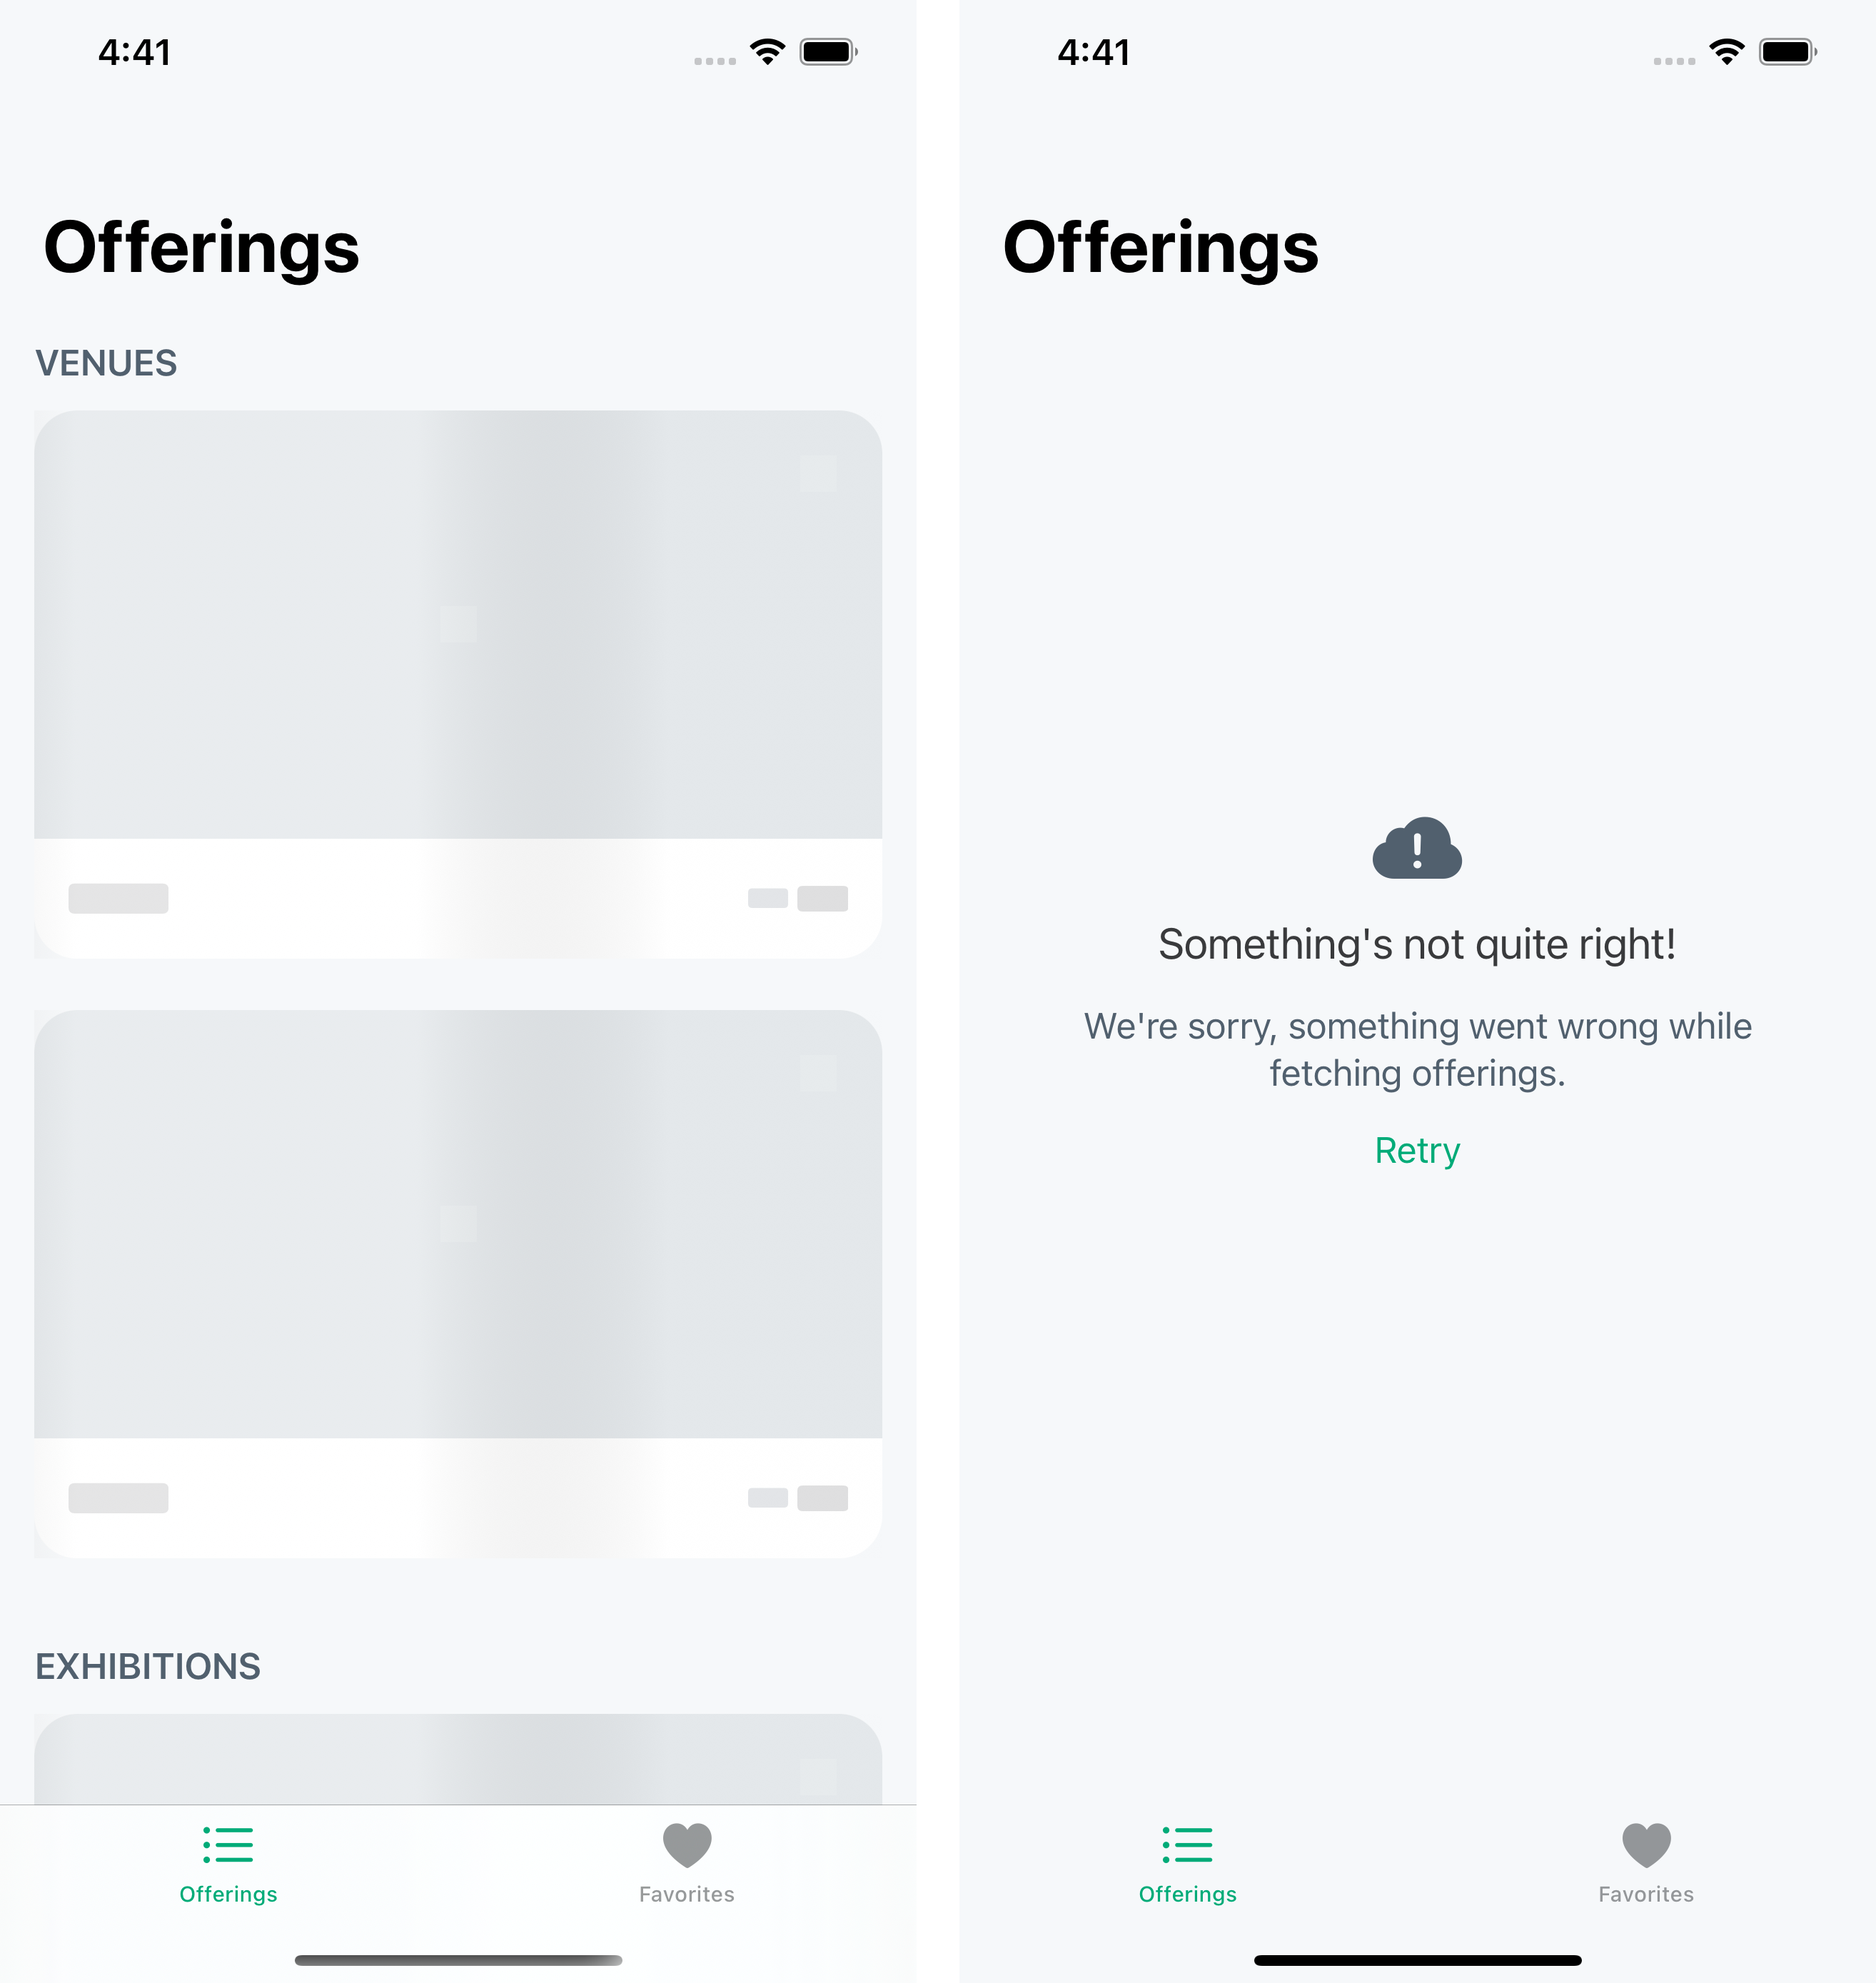
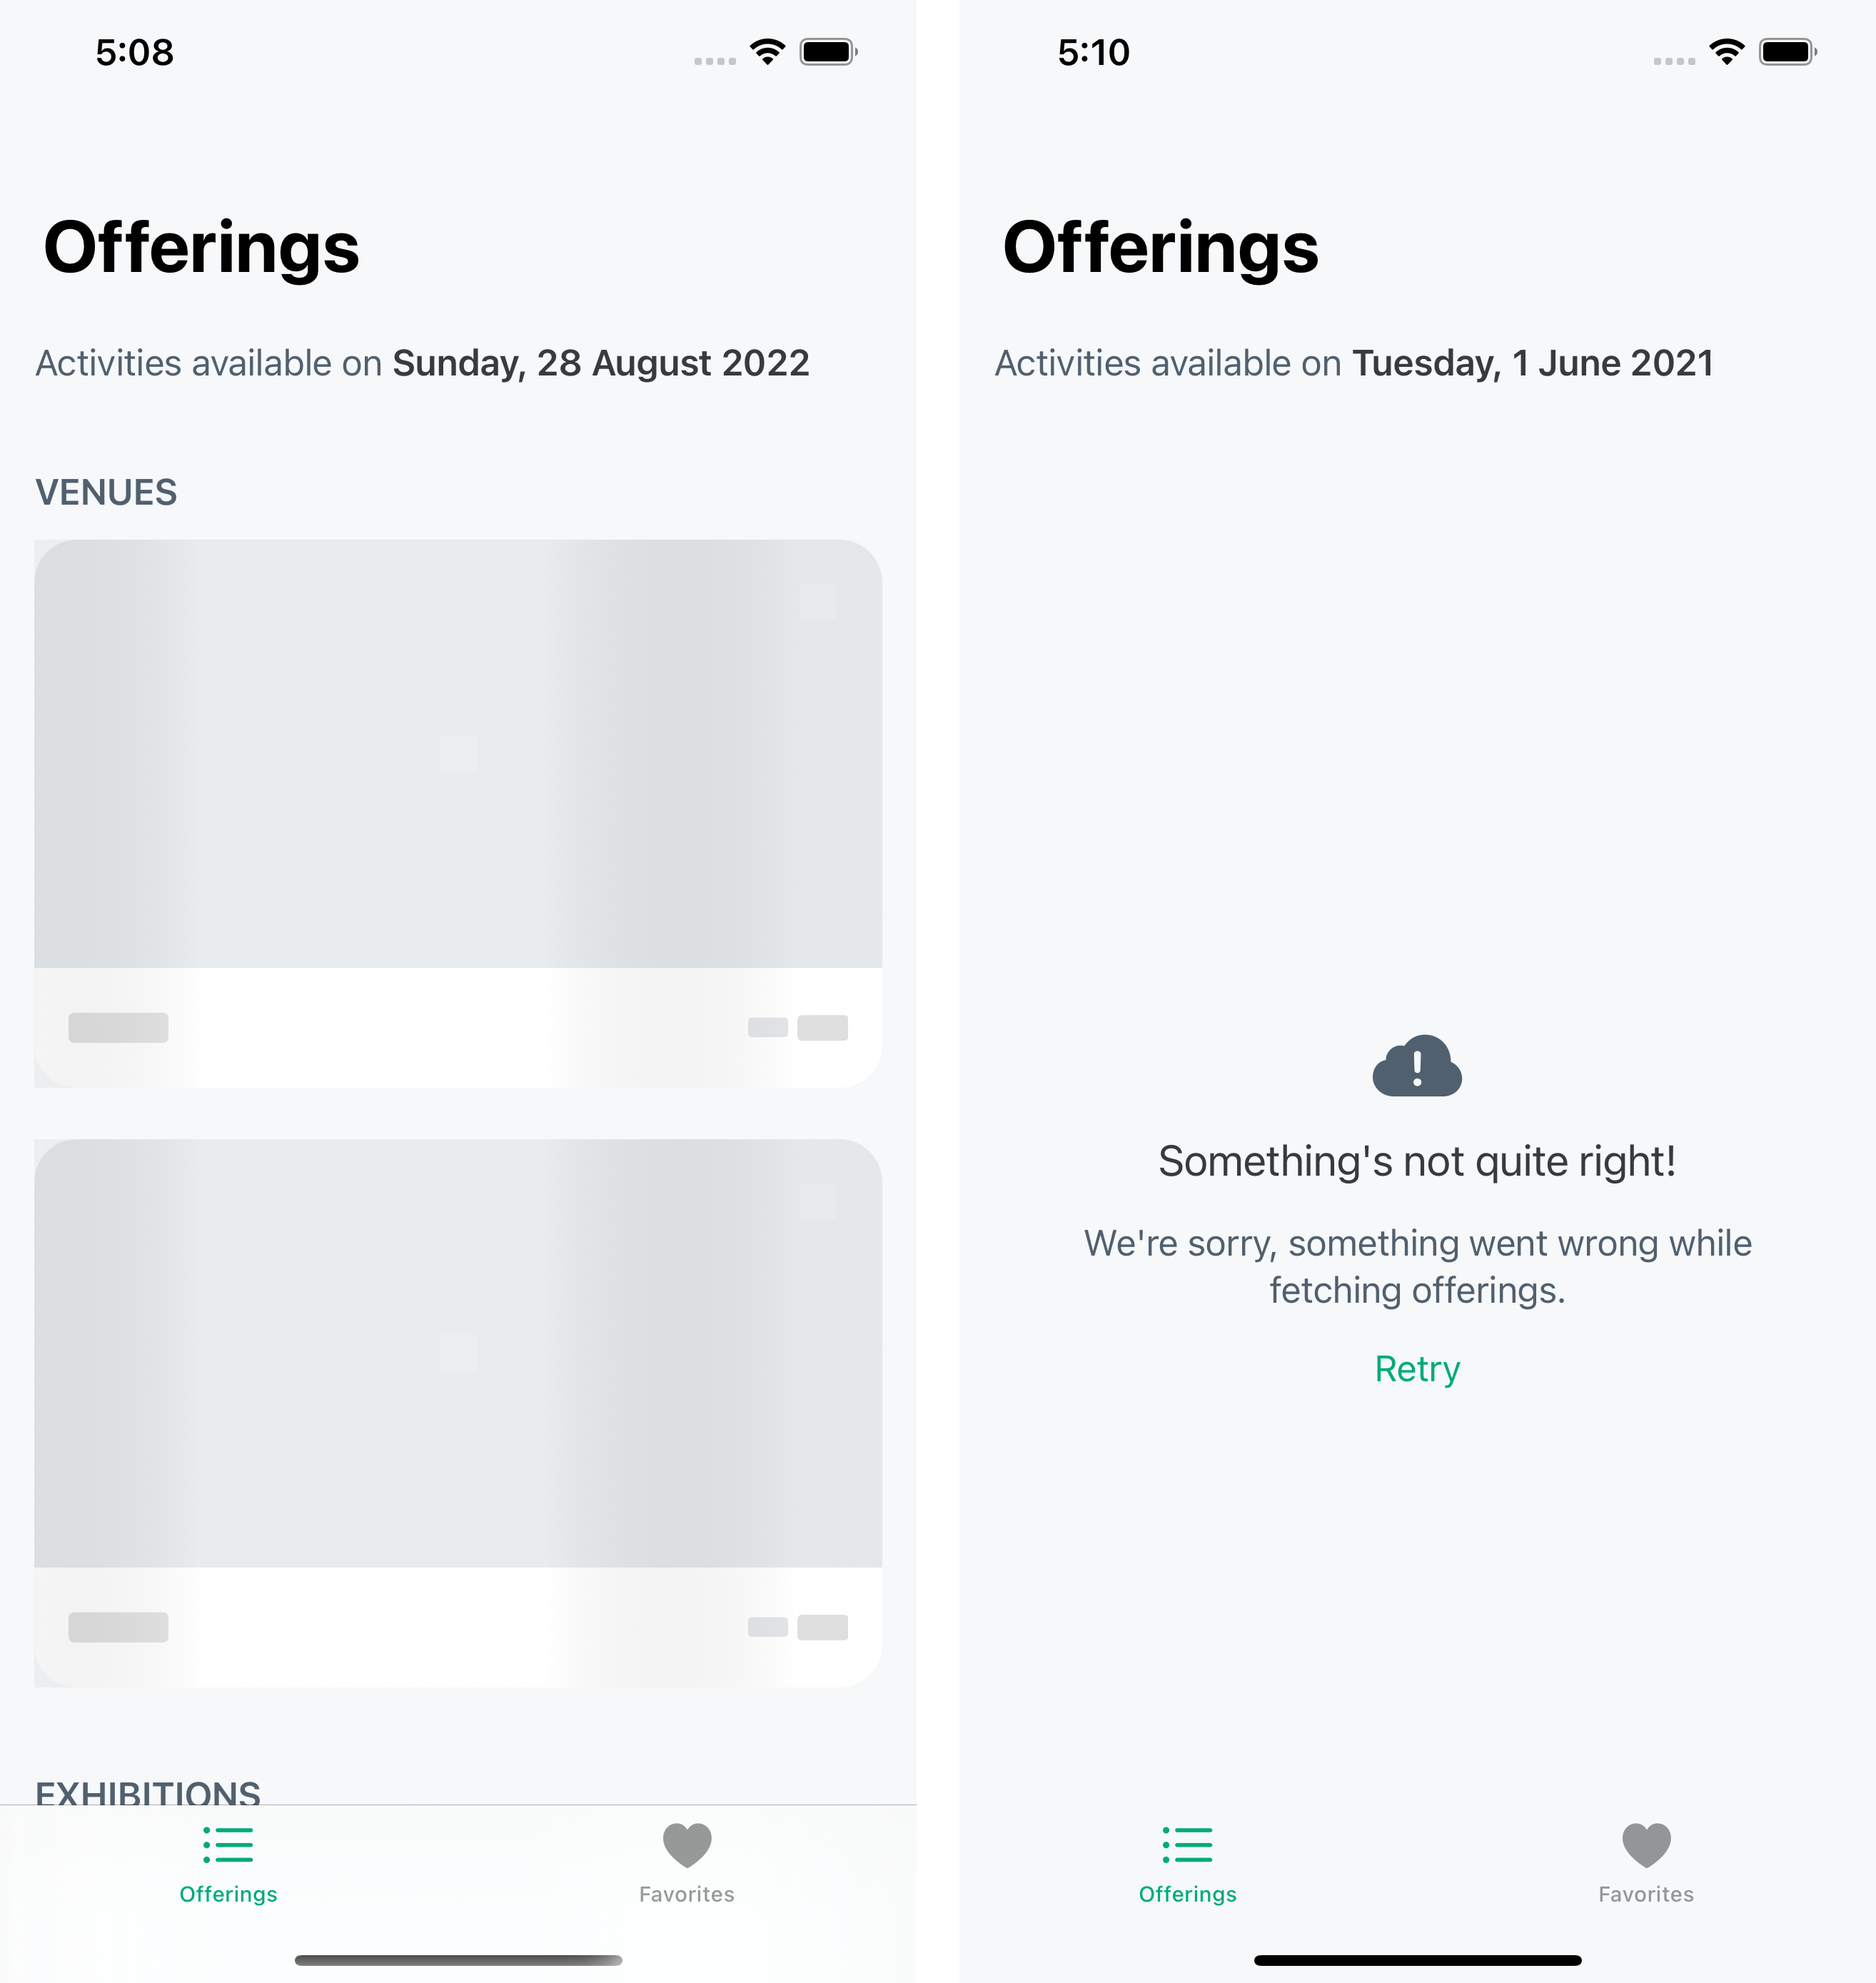
📄 Update readme

diff --git a/README.md b/README.md
@@ -12,7 +12,7 @@ This enforces separation of duties & helps mitigate code-spaghettification, but 
 ### Core
 
 Contains most `UseCases` and their implementations, as well as mocks for testing & debugging.
-Conform to the assignment, I've included a use case for providing the current `Date`, which is hard-coded to the 1st of June 2021 in Mock implementations.
+Conform to the assignment, I've included a use case for providing the current `Date`, which is hard-coded to the 1st of June 2021 in Mock implementations (used as default for demonstration purposes).
 
 ### Networking
 
